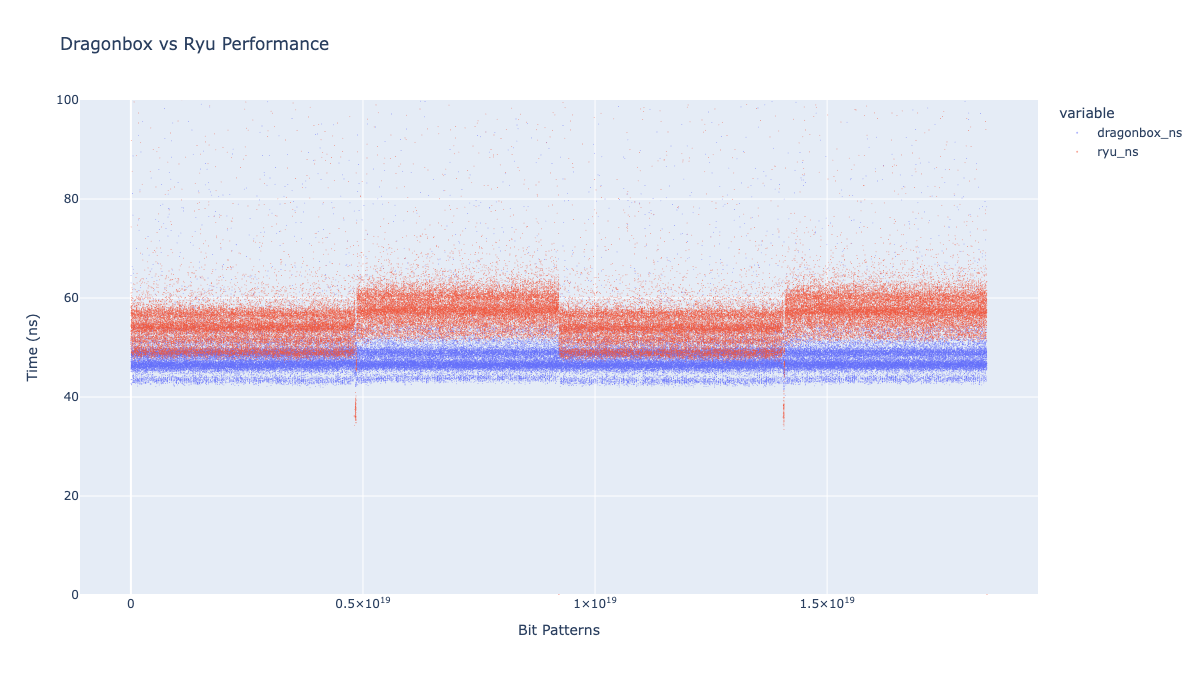
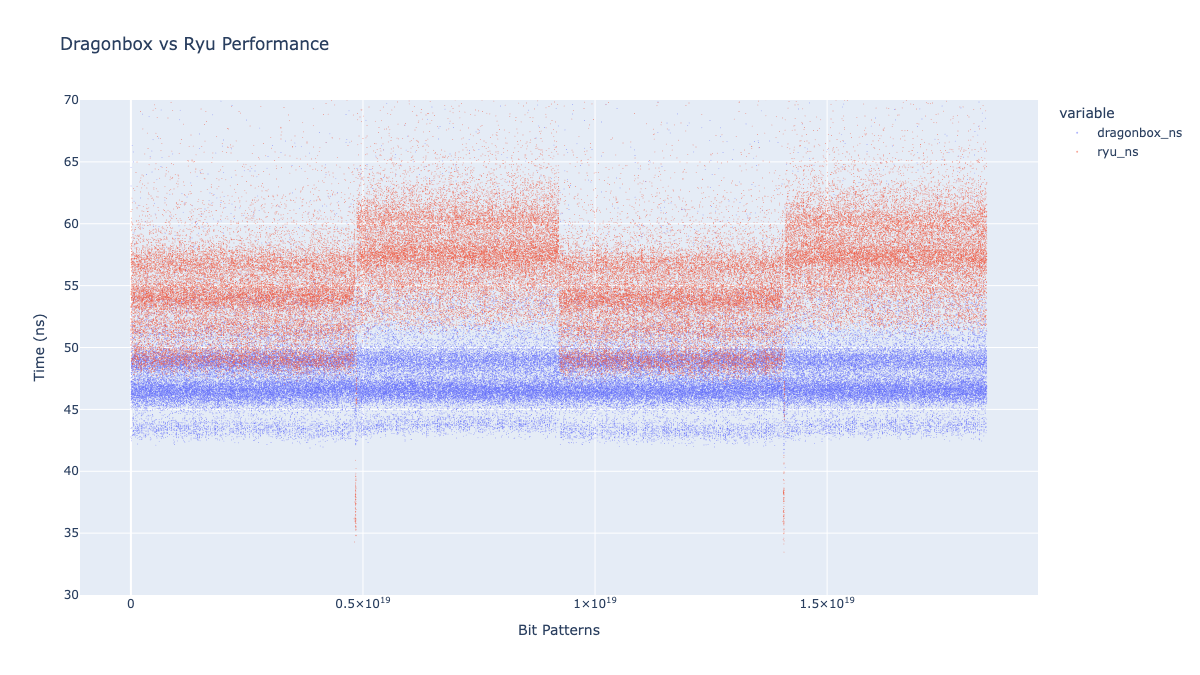
Adjust y axis range

Changed region(s): [[0.0925, 0.2178, 0.8325, 0.6533], [0.0, 0.4667, 0.0617, 0.5289], [0.0, 0.5289, 0.0308, 0.56]]

diff --git a/src/bench/plot.py b/src/bench/plot.py
@@ -17,7 +17,7 @@ for bit_size in [32, 64]:
     )
 
     fig.update_traces(marker=dict(size=1, opacity=0.5))
-    fig.update_yaxes(range=[0, 100])
+    fig.update_yaxes(range=[30, 70])
     fig.write_image(output_file, width=1200, height=675)
 
 for bit_size in [32, 64]:
@@ -35,5 +35,5 @@ for bit_size in [32, 64]:
     )
 
     fig.update_traces(line=dict(width=2))
-    fig.update_yaxes(range=[0, 100])
+    fig.update_yaxes(range=[30, 70])
     fig.write_image(output_file, width=1200, height=675)
